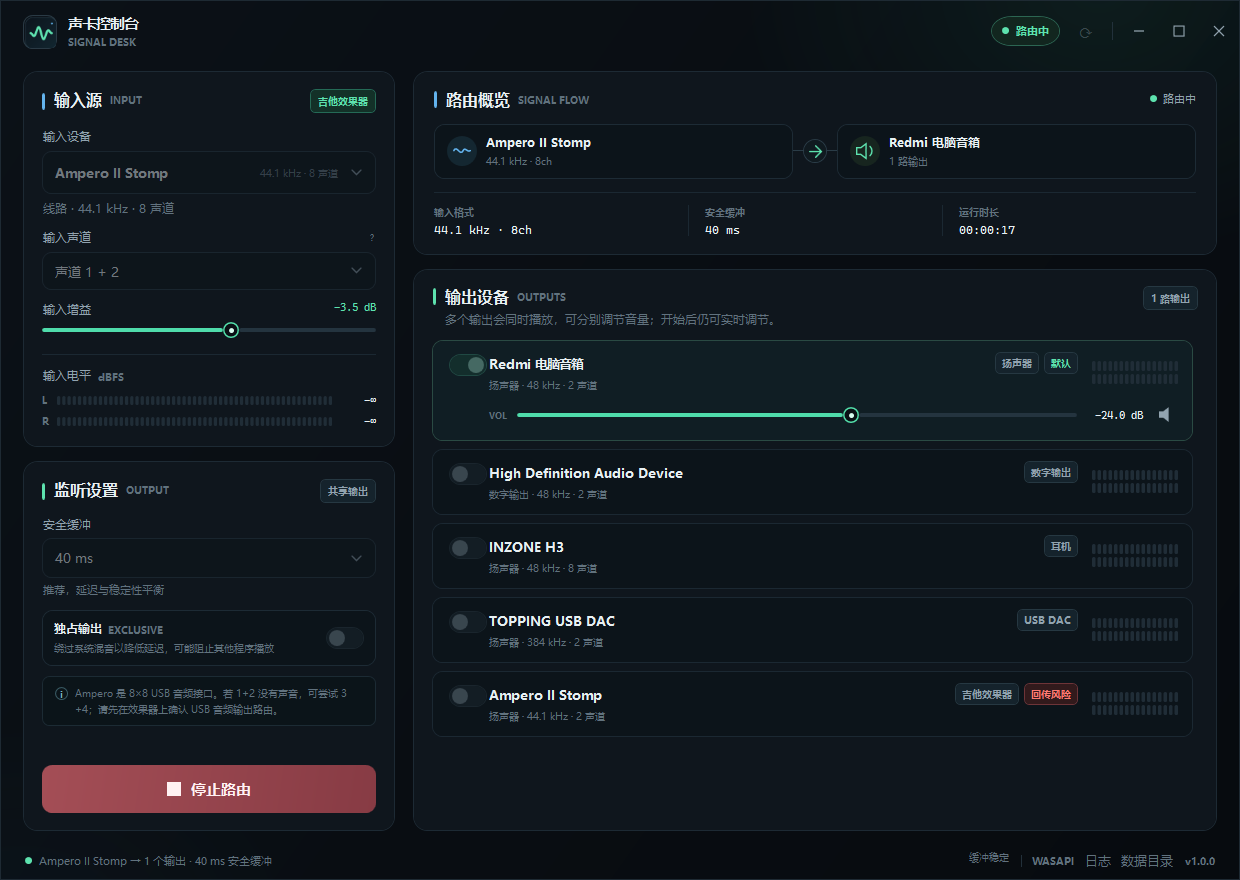
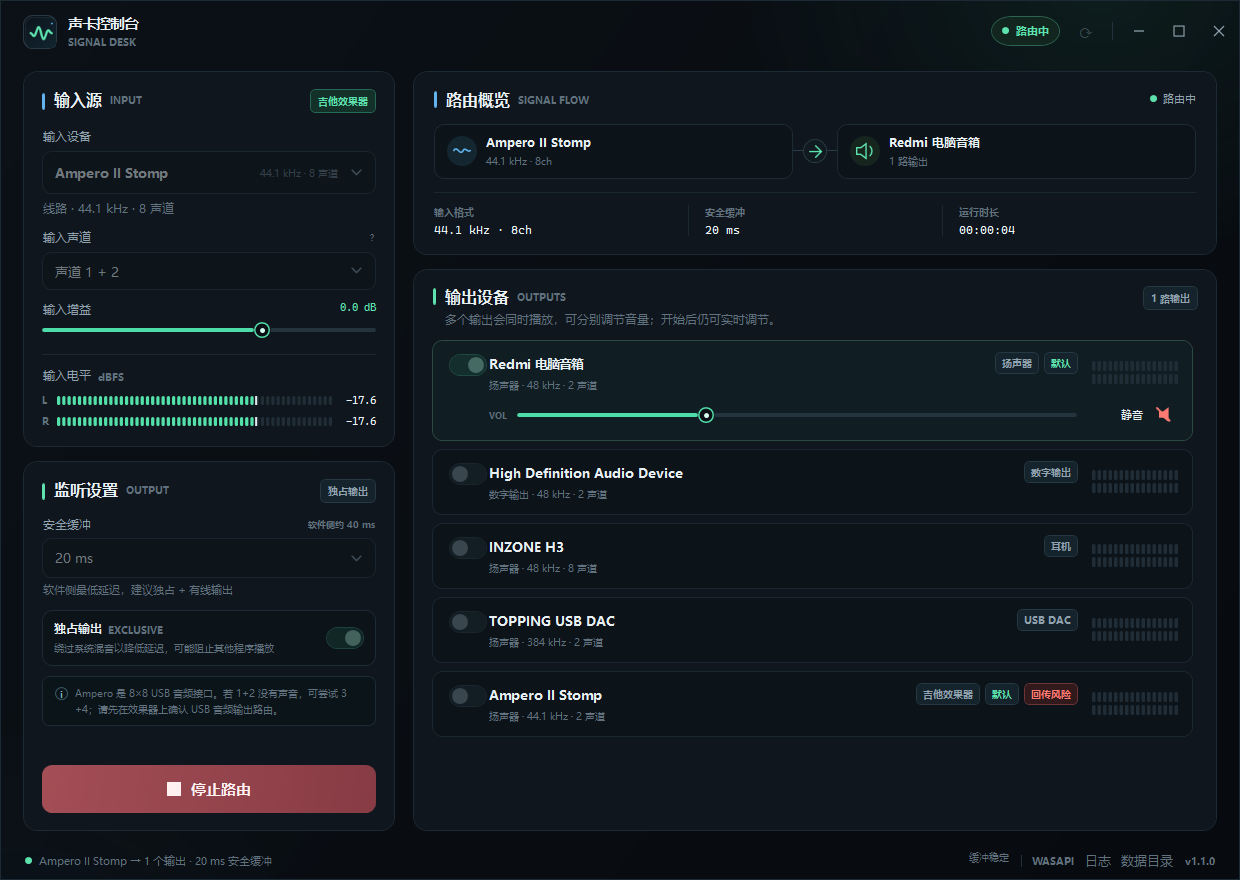
feat: add 20 ms low-latency audio preset
Add a 20 ms safety-buffer option, shorten the WASAPI render buffer to 10 ms for the low-latency presets, surface a software-side latency estimate, and document the latency tradeoffs.

diff --git a/src/SoundConsole/MainWindow.xaml b/src/SoundConsole/MainWindow.xaml
@@ -334,13 +334,20 @@
                                         </Border>
                                     </Grid>
 
-                                    <TextBlock Text="安全缓冲" Style="{StaticResource FieldLabel}" Margin="1,13,0,5" />
+                                    <Grid Margin="1,13,1,5">
+                                        <TextBlock Text="安全缓冲" Style="{StaticResource FieldLabel}" Margin="0" />
+                                        <TextBlock Text="{Binding LatencyEstimateText}" Style="{StaticResource MicroLabel}"
+                                                   FontSize="9" HorizontalAlignment="Right" Margin="0,1,0,0"
+                                                   ToolTip="{Binding LatencyHint}" />
+                                    </Grid>
                                     <ComboBox Style="{StaticResource DarkComboBox}" Height="40"
                                               ItemsSource="{Binding BufferOptions}"
                                               SelectedItem="{Binding SelectedBuffer, Mode=TwoWay}"
                                               IsEnabled="{Binding CanEditRouting}"
                                               DisplayMemberPath="Label"
-                                              ToolTip="缓冲越大越稳定；越小延迟越低" />
+                                              ToolTip="{Binding LatencyHint}"
+                                              AutomationProperties.Name="安全缓冲"
+                                              AutomationProperties.HelpText="{Binding LatencyHint}" />
                                     <TextBlock Text="{Binding SelectedBuffer.Description}" Style="{StaticResource SmallText}"
                                                Margin="1,4,0,0" FontSize="10.5" />
 

diff --git a/src/SoundConsole/ViewModels/MainViewModel.cs b/src/SoundConsole/ViewModels/MainViewModel.cs
@@ -52,14 +52,15 @@ public sealed class MainViewModel : ObservableObject
 
         BufferOptions =
         [
-            new BufferOption(30, "30 ms", "最低延迟，适合性能较好的设备"),
+            new BufferOption(20, "20 ms", "软件侧最低延迟，建议独占 + 有线输出"),
+            new BufferOption(30, "30 ms", "低延迟，建议独占 + 有线输出"),
             new BufferOption(40, "40 ms", "推荐，延迟与稳定性平衡"),
             new BufferOption(60, "60 ms", "更稳定，适合无线或虚拟设备"),
             new BufferOption(100, "100 ms", "高容错，优先保证不断音"),
             new BufferOption(160, "160 ms", "极高容错，延迟较明显")
         ];
         _selectedBuffer = BufferOptions.FirstOrDefault(option => option.Milliseconds == _settings.BufferMilliseconds)
-            ?? BufferOptions[1];
+            ?? BufferOptions.First(option => option.Milliseconds == 40);
 
         InputDevices = [];
         InputChannels = [];
@@ -201,6 +202,8 @@ public sealed class MainViewModel : ObservableObject
             {
                 OnPropertyChanged(nameof(BufferSummary));
                 OnPropertyChanged(nameof(SelectedBufferMsText));
+                OnPropertyChanged(nameof(LatencyEstimateText));
+                OnPropertyChanged(nameof(LatencyHint));
                 OnPropertyChanged(nameof(StatusDetail));
                 ScheduleSave();
             }
@@ -210,6 +213,22 @@ public sealed class MainViewModel : ObservableObject
     public string BufferSummary => $"{SelectedBuffer.Milliseconds} ms 安全缓冲";
 
     public string SelectedBufferMsText => $"{SelectedBuffer.Milliseconds} ms";
+
+    public string LatencyEstimateText =>
+        $"软件侧约 {AudioLatencyPolicy.EstimateSoftwareLatencyMilliseconds(SelectedBuffer.Milliseconds)} ms";
+
+    public string LatencyHint
+    {
+        get
+        {
+            var softwareMs = AudioLatencyPolicy.EstimateSoftwareLatencyMilliseconds(SelectedBuffer.Milliseconds);
+            var outputMs = AudioLatencyPolicy.GetOutputBufferMilliseconds(SelectedBuffer.Milliseconds);
+            return $"软件侧预计约 {softwareMs} ms：" +
+                   $"应用缓冲 {SelectedBuffer.Milliseconds} ms + 输出设备缓冲约 {outputMs} ms + 采集周期约 {AudioLatencyPolicy.CapturePeriodMilliseconds} ms。\n" +
+                   "实际总延迟还需加上 USB 传输、效果器处理和声卡/耳机自身缓冲。\n" +
+                   "低延迟组合：20 ms + 独占输出 + 有线 44.1/48 kHz 设备。";
+        }
+    }
 
     public string InputFormatText => SelectedInput is null
         ? "—"

diff --git a/src/SoundConsole.Core/Audio/AudioRouterEngine.cs b/src/SoundConsole.Core/Audio/AudioRouterEngine.cs
@@ -28,6 +28,7 @@ public sealed class AudioRouterEngine : IDisposable
     private int _inputGainBits = BitConverter.SingleToInt32Bits(1f);
     private int _targetFrames;
     private int _bufferMilliseconds;
+    private int _outputBufferMilliseconds;
     private int _stateValue;
     private volatile bool _intentionalStop;
     private Exception? _captureFault;
@@ -47,6 +48,8 @@ public sealed class AudioRouterEngine : IDisposable
     public int InputChannels => _captureFormat?.Channels ?? 0;
 
     public int BufferMilliseconds => _bufferMilliseconds;
+
+    public int OutputBufferMilliseconds => _outputBufferMilliseconds;
 
     public IReadOnlyList<ActiveOutputInfo> ActiveOutputs
     {
@@ -217,7 +220,8 @@ public sealed class AudioRouterEngine : IDisposable
             $"input={InputName ?? "-"}/{InputSampleRate}Hz/{InputChannels}ch",
             $"captureFrames={CaptureFrames}",
             $"captureAge={LastCaptureAgeMs}ms",
-            $"buffer={_bufferMilliseconds}ms"
+            $"buffer={_bufferMilliseconds}ms",
+            $"outputBuffer={_outputBufferMilliseconds}ms"
         };
         foreach (var sink in sinks)
         {
@@ -259,8 +263,11 @@ public sealed class AudioRouterEngine : IDisposable
         _startRate = _captureFormat.SampleRate;
         _startChannels = _captureFormat.Channels;
         _bufferMilliseconds = Math.Clamp(request.BufferMilliseconds, 20, 300);
+        _outputBufferMilliseconds = AudioLatencyPolicy.GetOutputBufferMilliseconds(_bufferMilliseconds);
         _targetFrames = Math.Max(64, (int)(_startRate * (_bufferMilliseconds / 1000.0)));
         SetInputGainDb(request.InputGainDb);
+        AppLog.Info($"软件缓冲：应用 {_bufferMilliseconds}ms，输出设备 {_outputBufferMilliseconds}ms，" +
+                    $"预计软件侧约 {AudioLatencyPolicy.EstimateSoftwareLatencyMilliseconds(_bufferMilliseconds)}ms");
         _captureFrames = 0;
         _lastCaptureTick = 0;
 
@@ -291,7 +298,7 @@ public sealed class AudioRouterEngine : IDisposable
                         _buffer,
                         _startRate,
                         _targetFrames,
-                        latencyMs: 20,
+                        latencyMs: _outputBufferMilliseconds,
                         preferExclusive: request.PreferExclusive);
                     sink.UnexpectedStop += OnSinkStopped;
                     sinks.Add(sink);

diff --git a/src/SoundConsole.Core/Audio/AudioLatencyPolicy.cs b/src/SoundConsole.Core/Audio/AudioLatencyPolicy.cs
@@ -1,0 +1,27 @@
+namespace SoundConsole.Core.Audio;
+
+/// <summary>
+/// Latency choices shared by the engine and the UI. These values describe software-side
+/// buffering only; USB transport, the instrument processor, and the output device add more.
+/// </summary>
+public static class AudioLatencyPolicy
+{
+    /// <summary>Observed WASAPI capture callback period on the tested devices.</summary>
+    public const int CapturePeriodMilliseconds = 10;
+
+    /// <summary>
+    /// The render buffer can be shorter when the user has already chosen a small safety
+    /// buffer. Larger safety buffers keep the more conservative 20 ms render buffer.
+    /// </summary>
+    public static int GetOutputBufferMilliseconds(int safetyBufferMilliseconds) =>
+        safetyBufferMilliseconds <= 30 ? 10 : 20;
+
+    /// <summary>
+    /// Approximate software-side latency: capture period + application ring target +
+    /// requested WASAPI render buffer. Hardware and driver latency are excluded.
+    /// </summary>
+    public static int EstimateSoftwareLatencyMilliseconds(int safetyBufferMilliseconds) =>
+        CapturePeriodMilliseconds +
+        safetyBufferMilliseconds +
+        GetOutputBufferMilliseconds(safetyBufferMilliseconds);
+}

diff --git a/tests/SoundConsole.Core.Tests/AudioLatencyPolicyTests.cs b/tests/SoundConsole.Core.Tests/AudioLatencyPolicyTests.cs
@@ -1,0 +1,28 @@
+using SoundConsole.Core.Audio;
+
+namespace SoundConsole.Core.Tests;
+
+public sealed class AudioLatencyPolicyTests
+{
+    [Theory]
+    [InlineData(20, 10)]
+    [InlineData(30, 10)]
+    [InlineData(40, 20)]
+    [InlineData(60, 20)]
+    [InlineData(160, 20)]
+    public void OutputBuffer_UsesLowLatencyValueForSmallSafetyBuffers(int safetyBuffer, int expectedOutputBuffer)
+    {
+        Assert.Equal(expectedOutputBuffer, AudioLatencyPolicy.GetOutputBufferMilliseconds(safetyBuffer));
+    }
+
+    [Theory]
+    [InlineData(20, 40)]
+    [InlineData(30, 50)]
+    [InlineData(40, 70)]
+    [InlineData(60, 90)]
+    [InlineData(160, 190)]
+    public void Estimate_AddsCaptureAndRenderBuffers(int safetyBuffer, int expectedSoftwareLatency)
+    {
+        Assert.Equal(expectedSoftwareLatency, AudioLatencyPolicy.EstimateSoftwareLatencyMilliseconds(safetyBuffer));
+    }
+}

diff --git a/README.md b/README.md
@@ -50,7 +50,7 @@ Sound Console is a small, self-contained WASAPI router built specifically for th
 - **Channel-pair picker** — supports multi-channel interfaces; 8-channel devices expose `1+2`, `3+4`, `5+6`, `7+8`.
 - **Multiple outputs** — route one input to up to eight playback devices, each with independent volume, mute, and level meter.
 - **Input gain and metering** — −24 to +12 dB in 0.5 dB steps, stereo peak meters, and a latched clip indicator.
-- **Latency presets** — 30, 40, 60, 100, or 160 ms safety buffer; 40 ms by default.
+- **Latency presets** — 20, 30, 40, 60, 100, or 160 ms safety buffer. The 20/30 ms settings also request a shorter 10 ms WASAPI render buffer; 40 ms remains the default.
 - **Shared and exclusive modes** — automatic fallback to shared mode when a device rejects exclusive access.
 - **Clock-drift tolerant** — a shared ring buffer plus cubic interpolation keeps independent capture/render clocks from accumulating delay; a 60-second soak test with a 44.1 kHz input and 96 kHz stream completed with zero dropouts.
 - **Desktop conveniences** — hot-plug detection, `F5` refresh, `Ctrl+Enter` start/stop, persistent settings, single-instance guard, error toast, and logs.
@@ -93,9 +93,38 @@ If a device does not support exclusive mode, Sound Console automatically falls b
 
 ### Latency guidance
 
-Actual latency depends on the USB driver, device period, buffer setting, and mode. Start with 40 ms in shared mode. For lower latency, try 30 ms with exclusive mode. Bluetooth and virtual devices usually need 60 ms or more.
+Latency is made up of several layers:
 
-This application is a PC-side router, not a zero-latency hardware monitor. For the lowest possible monitoring latency, use the modeller's direct monitoring or a dedicated ASIO interface.
+```text
+Ampero A/D + processing + USB transport
+  + WASAPI capture period
+  + Sound Console safety buffer
+  + WASAPI render buffer + device/DAC buffering
+  = what you hear
+```
+
+The application can control only the middle layers. The buffer tooltip shows a software-side estimate:
+
+| Safety buffer | Render buffer | Software-side estimate* | Typical use |
+| --- | --- | --- | --- |
+| 20 ms | 10 ms | ~40 ms | Low-latency wired monitoring, exclusive mode |
+| 30 ms | 10 ms | ~50 ms | Low-latency fallback |
+| 40 ms (default) | 20 ms | ~70 ms | Shared-mode daily use |
+| 60–160 ms | 20 ms | 90–190 ms | Bluetooth, virtual cables, maximum stability |
+
+\* Capture period (~10 ms) + safety buffer + requested render buffer. This is **not** a measured round-trip: USB transport, the effect processor, and the output device add further latency.
+
+For the lowest practical latency:
+
+1. Select **20 ms**.
+2. Enable **exclusive output**.
+3. Use a wired USB DAC/headphone output, ideally at 44.1 or 48 kHz.
+4. Stop other high-CPU/audio applications and avoid USB hubs.
+5. If you hear dropouts, move to 30 ms, then 40 ms.
+
+On the tested setup, the 20 ms + exclusive combination removes roughly 30 ms of software buffering compared with the 40 ms shared default. Expect a typical total around 50–70 ms with the modeller and hardware included — better for practice and streaming, but still not zero-latency monitoring.
+
+This application is a PC-side router, not a zero-latency hardware monitor. For the tightest playing feel, use the modeller's direct monitoring or a dedicated ASIO interface.
 
 ### Sending audio to OBS, a DAW, or a meeting app
 

diff --git a/CHANGELOG.md b/CHANGELOG.md
@@ -7,25 +7,24 @@ and this project adheres to [Semantic Versioning](https://semver.org/spec/v2.0.0
 
 ## [Unreleased]
 
+Nothing yet.
+
+## [1.1.0] - 2026-10-23
+
 ### Added
 
-- Hardware-free xUnit coverage for channel mapping, PCM conversion, ring-buffer
-  behaviour, resampling, meters, settings, and sink output.
-- CI, release automation, Dependabot, issue forms, and pull request template.
-- Architecture, build, and troubleshooting documentation.
-- MIT license and third-party notices.
+- **20 ms low-latency safety-buffer preset** for wired, dedicated outputs.
+- Dynamic render buffering: 20/30 ms safety buffers now request a 10 ms WASAPI
+  render buffer instead of 20 ms.
+- A latency breakdown in the buffer tooltip, showing application, render, and
+  capture contributions without claiming a hardware round-trip measurement.
 
 ### Changed
 
 - Updated NAudio to 2.4.0, Microsoft.NET.Test.Sdk to 18.11.0, and
   xunit.runner.visualstudio to 4.0.1 after build, test, and live-route
   validation.
-
-### Fixed
-
-- Oversized capture blocks now advance the ring-buffer write position by the
-  original frame count, preserving correct absolute sample alignment.
-- Non-finite samples no longer trigger the clipping indicator.
+- Added unit coverage for the new latency policy.
 
 ## [1.0.0] - 2026-10-23
 
@@ -41,3 +40,15 @@ and this project adheres to [Semantic Versioning](https://semver.org/spec/v2.0.0
 - Clock-drift-tolerant ring buffer with per-output cubic resampling.
 - Hot-plug detection, single-instance guard, error toasts, and local logs.
 - Self-contained single-file Windows x64 build.
+- Hardware-free xUnit coverage, CI/release automation, bilingual documentation,
+  and open-source project scaffolding.
+
+### Fixed
+
+- Oversized capture blocks now advance the ring-buffer write position by the
+  original frame count, preserving correct absolute sample alignment.
+- Non-finite samples no longer trigger the clipping indicator.
+
+[Unreleased]: https://github.com/MungRed/sound-console/compare/v1.1.0...HEAD
+[1.1.0]: https://github.com/MungRed/sound-console/compare/v1.0.0...v1.1.0
+[1.0.0]: https://github.com/MungRed/sound-console/releases/tag/v1.0.0

diff --git a/docs/ARCHITECTURE.md b/docs/ARCHITECTURE.md
@@ -74,6 +74,20 @@ Capture and render hardware have independent clocks. Even a 20 ppm mismatch woul
 - Exclusive output tries 44.1, 48, and 96 kHz stereo float, falling back to the next candidate. If none succeeds, the sink is opened in shared mode and the UI receives a note.
 - Devices with more than two hardware channels (for example an 8-channel headset endpoint) are handled by opening a stereo stream and letting the Windows audio engine map it.
 
+### Latency budget
+
+`AudioLatencyPolicy` centralizes the software-side tradeoff:
+
+| Safety buffer | Requested render buffer |
+| --- | --- |
+| 20 ms | 10 ms |
+| 30 ms | 10 ms |
+| 40 ms and above | 20 ms |
+
+The UI estimates software-side latency as `capture period (≈10 ms) + safety buffer + render buffer`. It deliberately does not present this as a measured round trip: the instrument's A/D, DSP, USB transport, and the output device all add latency outside the application's control.
+
+The 20 ms preset is intended for a wired output in exclusive mode. It is not enabled by default because small buffers are more sensitive to USB and scheduler jitter.
+
 ## Threading and lifetime
 
 | Context | Responsibilities |
@@ -120,6 +134,7 @@ A device invalidation or unexpected `PlaybackStopped` schedules a fault path. Th
 - Meter peak/clip semantics.
 - Sink priming, output gain/mute, overflow resynchronization, and format metadata.
 - Settings normalization and output-preference lookup.
+- Software-latency policy for low-latency presets.
 - Error translation.
 
 The tests require no audio hardware and run in CI on `windows-latest`.

diff --git a/docs/TROUBLESHOOTING.md b/docs/TROUBLESHOOTING.md
@@ -62,11 +62,13 @@ A single dropout at startup is suppressed by the application. If the counter kee
 
 ## 7. Latency feels too high
 
-- Use 30 ms instead of 40 ms, then try 60 ms if unstable.
-- Use exclusive mode on a dedicated output.
+- Use **20 ms + exclusive mode + a wired output** for the lowest software-side latency.
+- If 20 ms is unstable, try 30 ms, then 40 ms. The buffer tooltip shows the estimated software contribution.
+- Use exclusive mode on a dedicated output instead of shared mode.
 - Prefer a wired USB DAC/headphone output over Bluetooth.
-- A 44.1 kHz input and a native 44.1 kHz output avoid resampling in the device chain.
-- Remember that USB buffering, the effect processor's internal processing, and the Windows audio engine all add latency. For zero-latency performance, monitor directly through the effect processor.
+- A 44.1 kHz input and a native 44.1/48 kHz output avoid extra resampling in the device chain.
+- Remember that USB buffering, the effect processor's internal processing, and the output device all add latency. On a typical setup the 20 ms preset lands around 50–70 ms end to end — noticeably better than the 40 ms shared default, but not zero-latency monitoring.
+- For the tightest playing feel, monitor directly through the effect processor or use a dedicated ASIO interface.
 
 ## 8. Sending audio to OBS / a DAW / Discord
 
